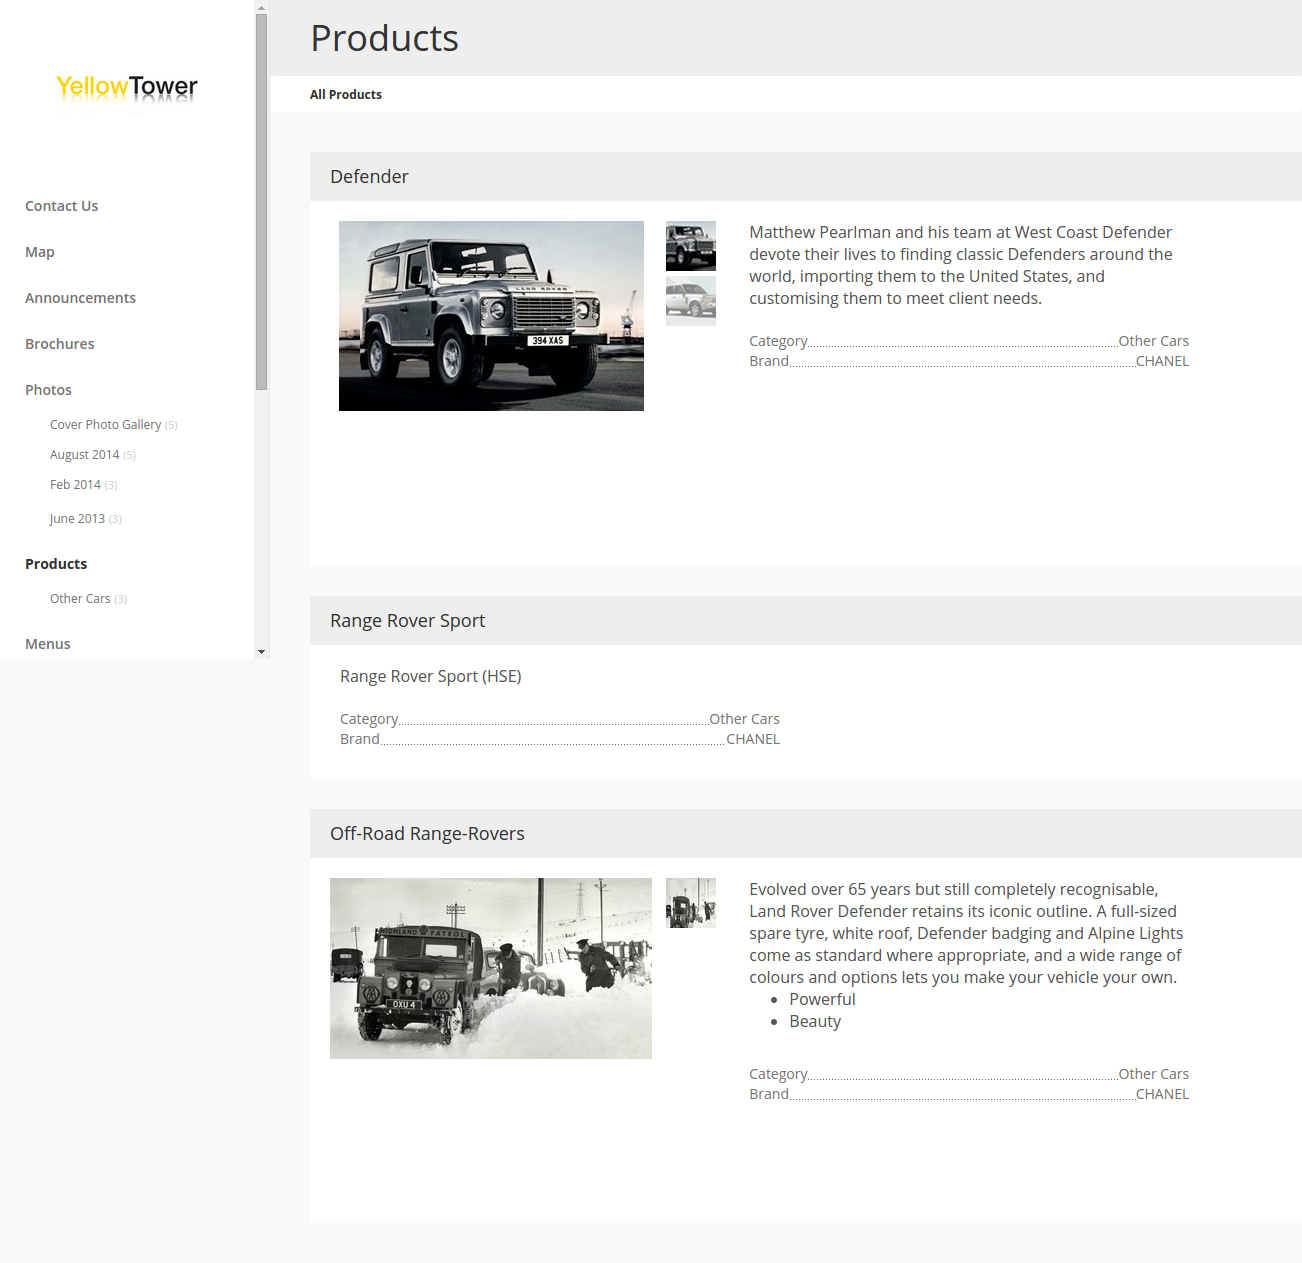
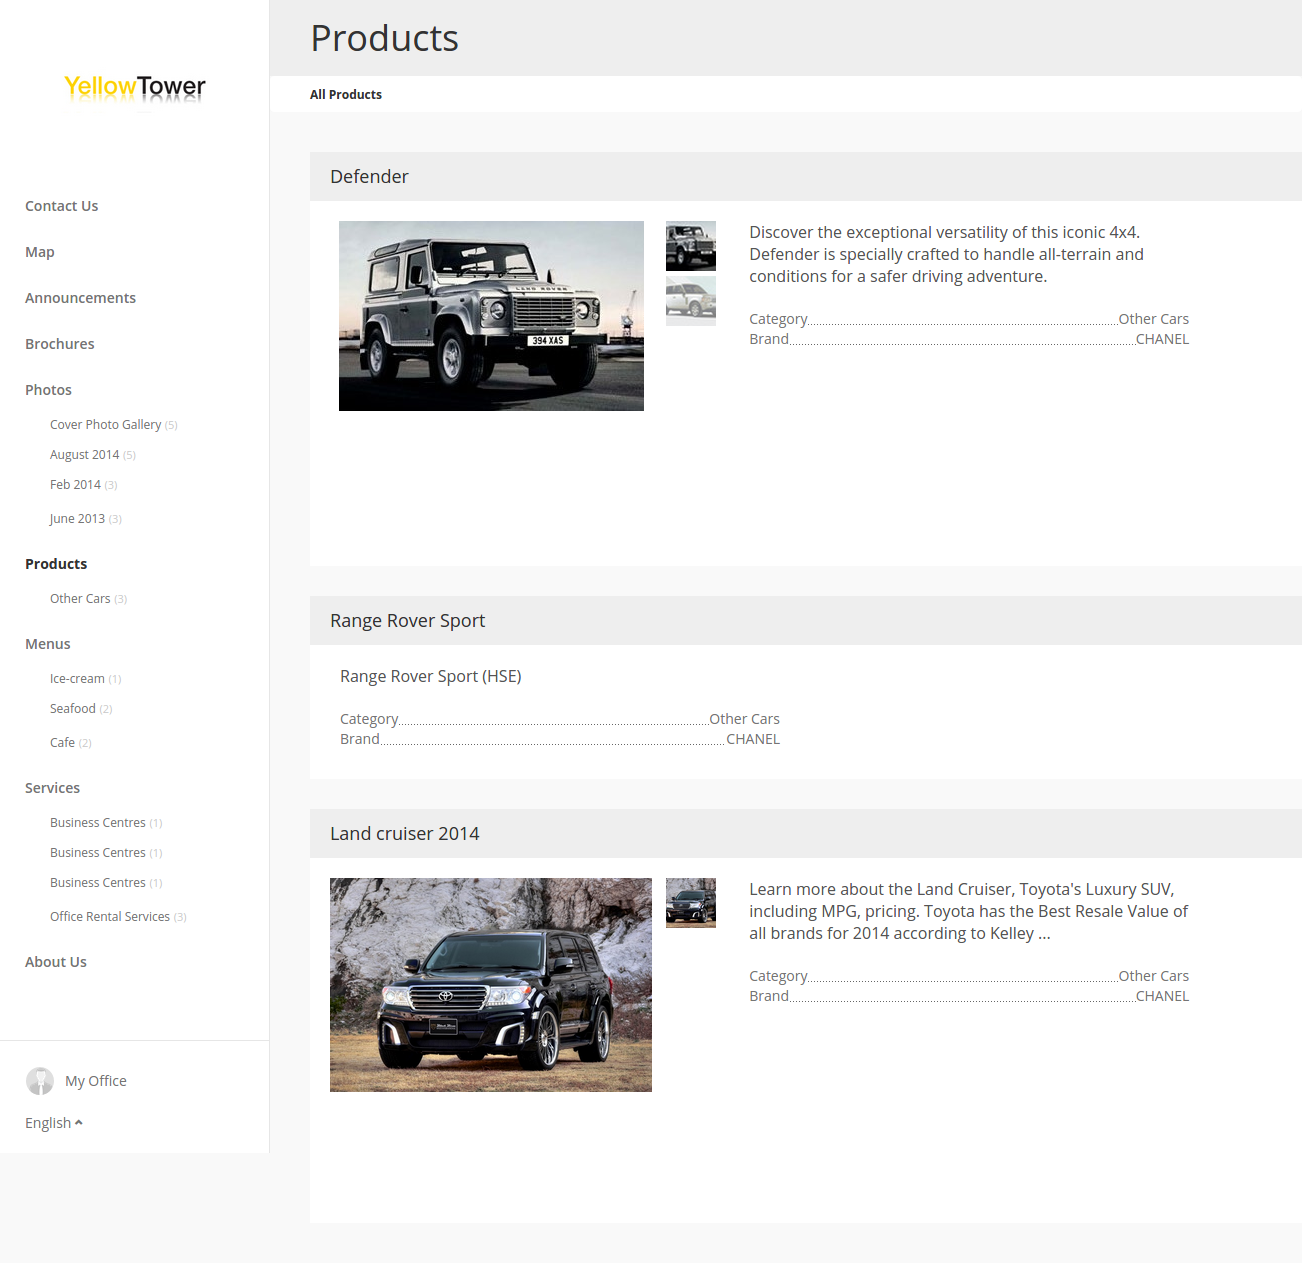
update screenshot products index, categories, show

diff --git a/theme-templates/products-categories-show/index.md b/theme-templates/products-categories-show/index.md
@@ -7,4 +7,4 @@
 
 The products/categories/show.liquid template is used to render the products by category page. The primary purpose of this page is to list the products collection by specific category that has been provided.
 
-![products by category]({{ '/images/theme-templates/ex_collection.jpg' | prepend: site.baseurl }})
+![products by category]({{ '/images/theme-templates/products-categories-show.png' | prepend: site.baseurl }})

diff --git a/theme-templates/products-index/index.md b/theme-templates/products-index/index.md
@@ -7,4 +7,4 @@
 
 The products/index.liquid template is used to render the products page. The primary purpose of this page is to list the products within a collection.
 
-![products]({{ '/images/theme-templates/ex_collection.jpg' | prepend: site.baseurl }})
+![products]({{ '/images/theme-templates/products-index.png' | prepend: site.baseurl }})

diff --git a/theme-templates/products-show/index.md b/theme-templates/products-show/index.md
@@ -7,4 +7,4 @@
 
 The products/show.liquid template is used to render the product page. The primary purpose of this page is to product detail information.
 
-![product detail]({{ '/images/theme-templates/ex_collection.jpg' | prepend: site.baseurl }})
+![product detail]({{ '/images/theme-templates/products-show.png' | prepend: site.baseurl }})
